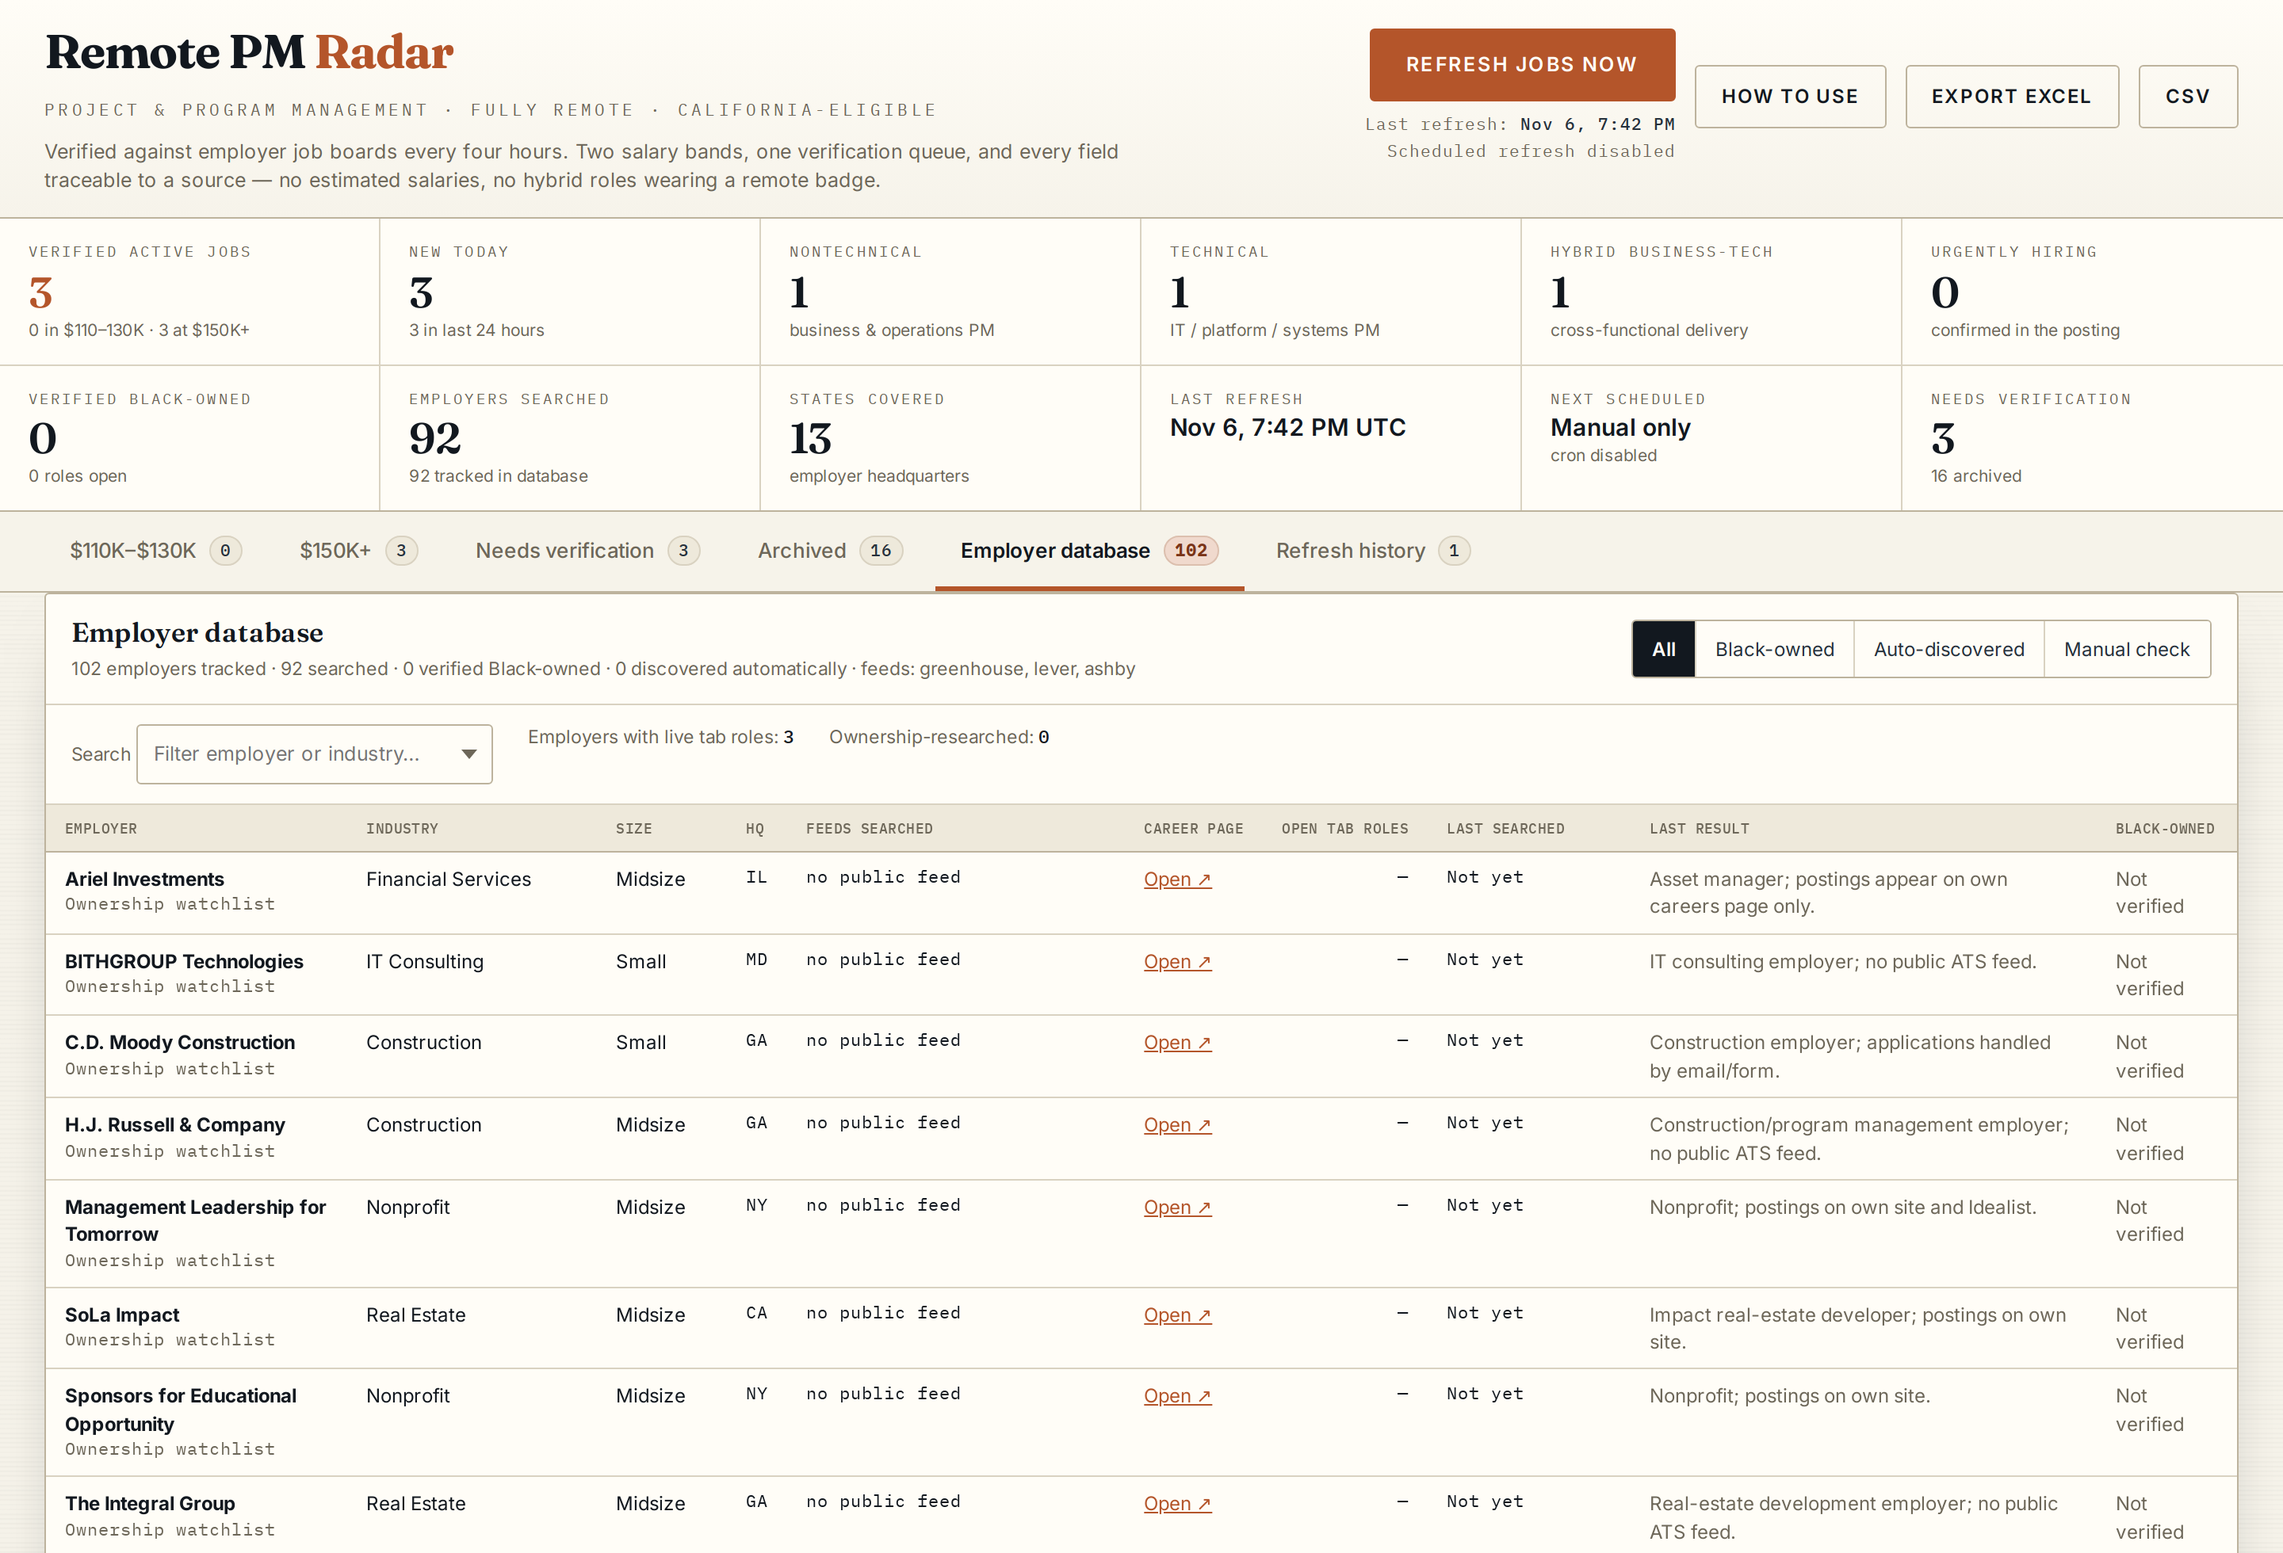
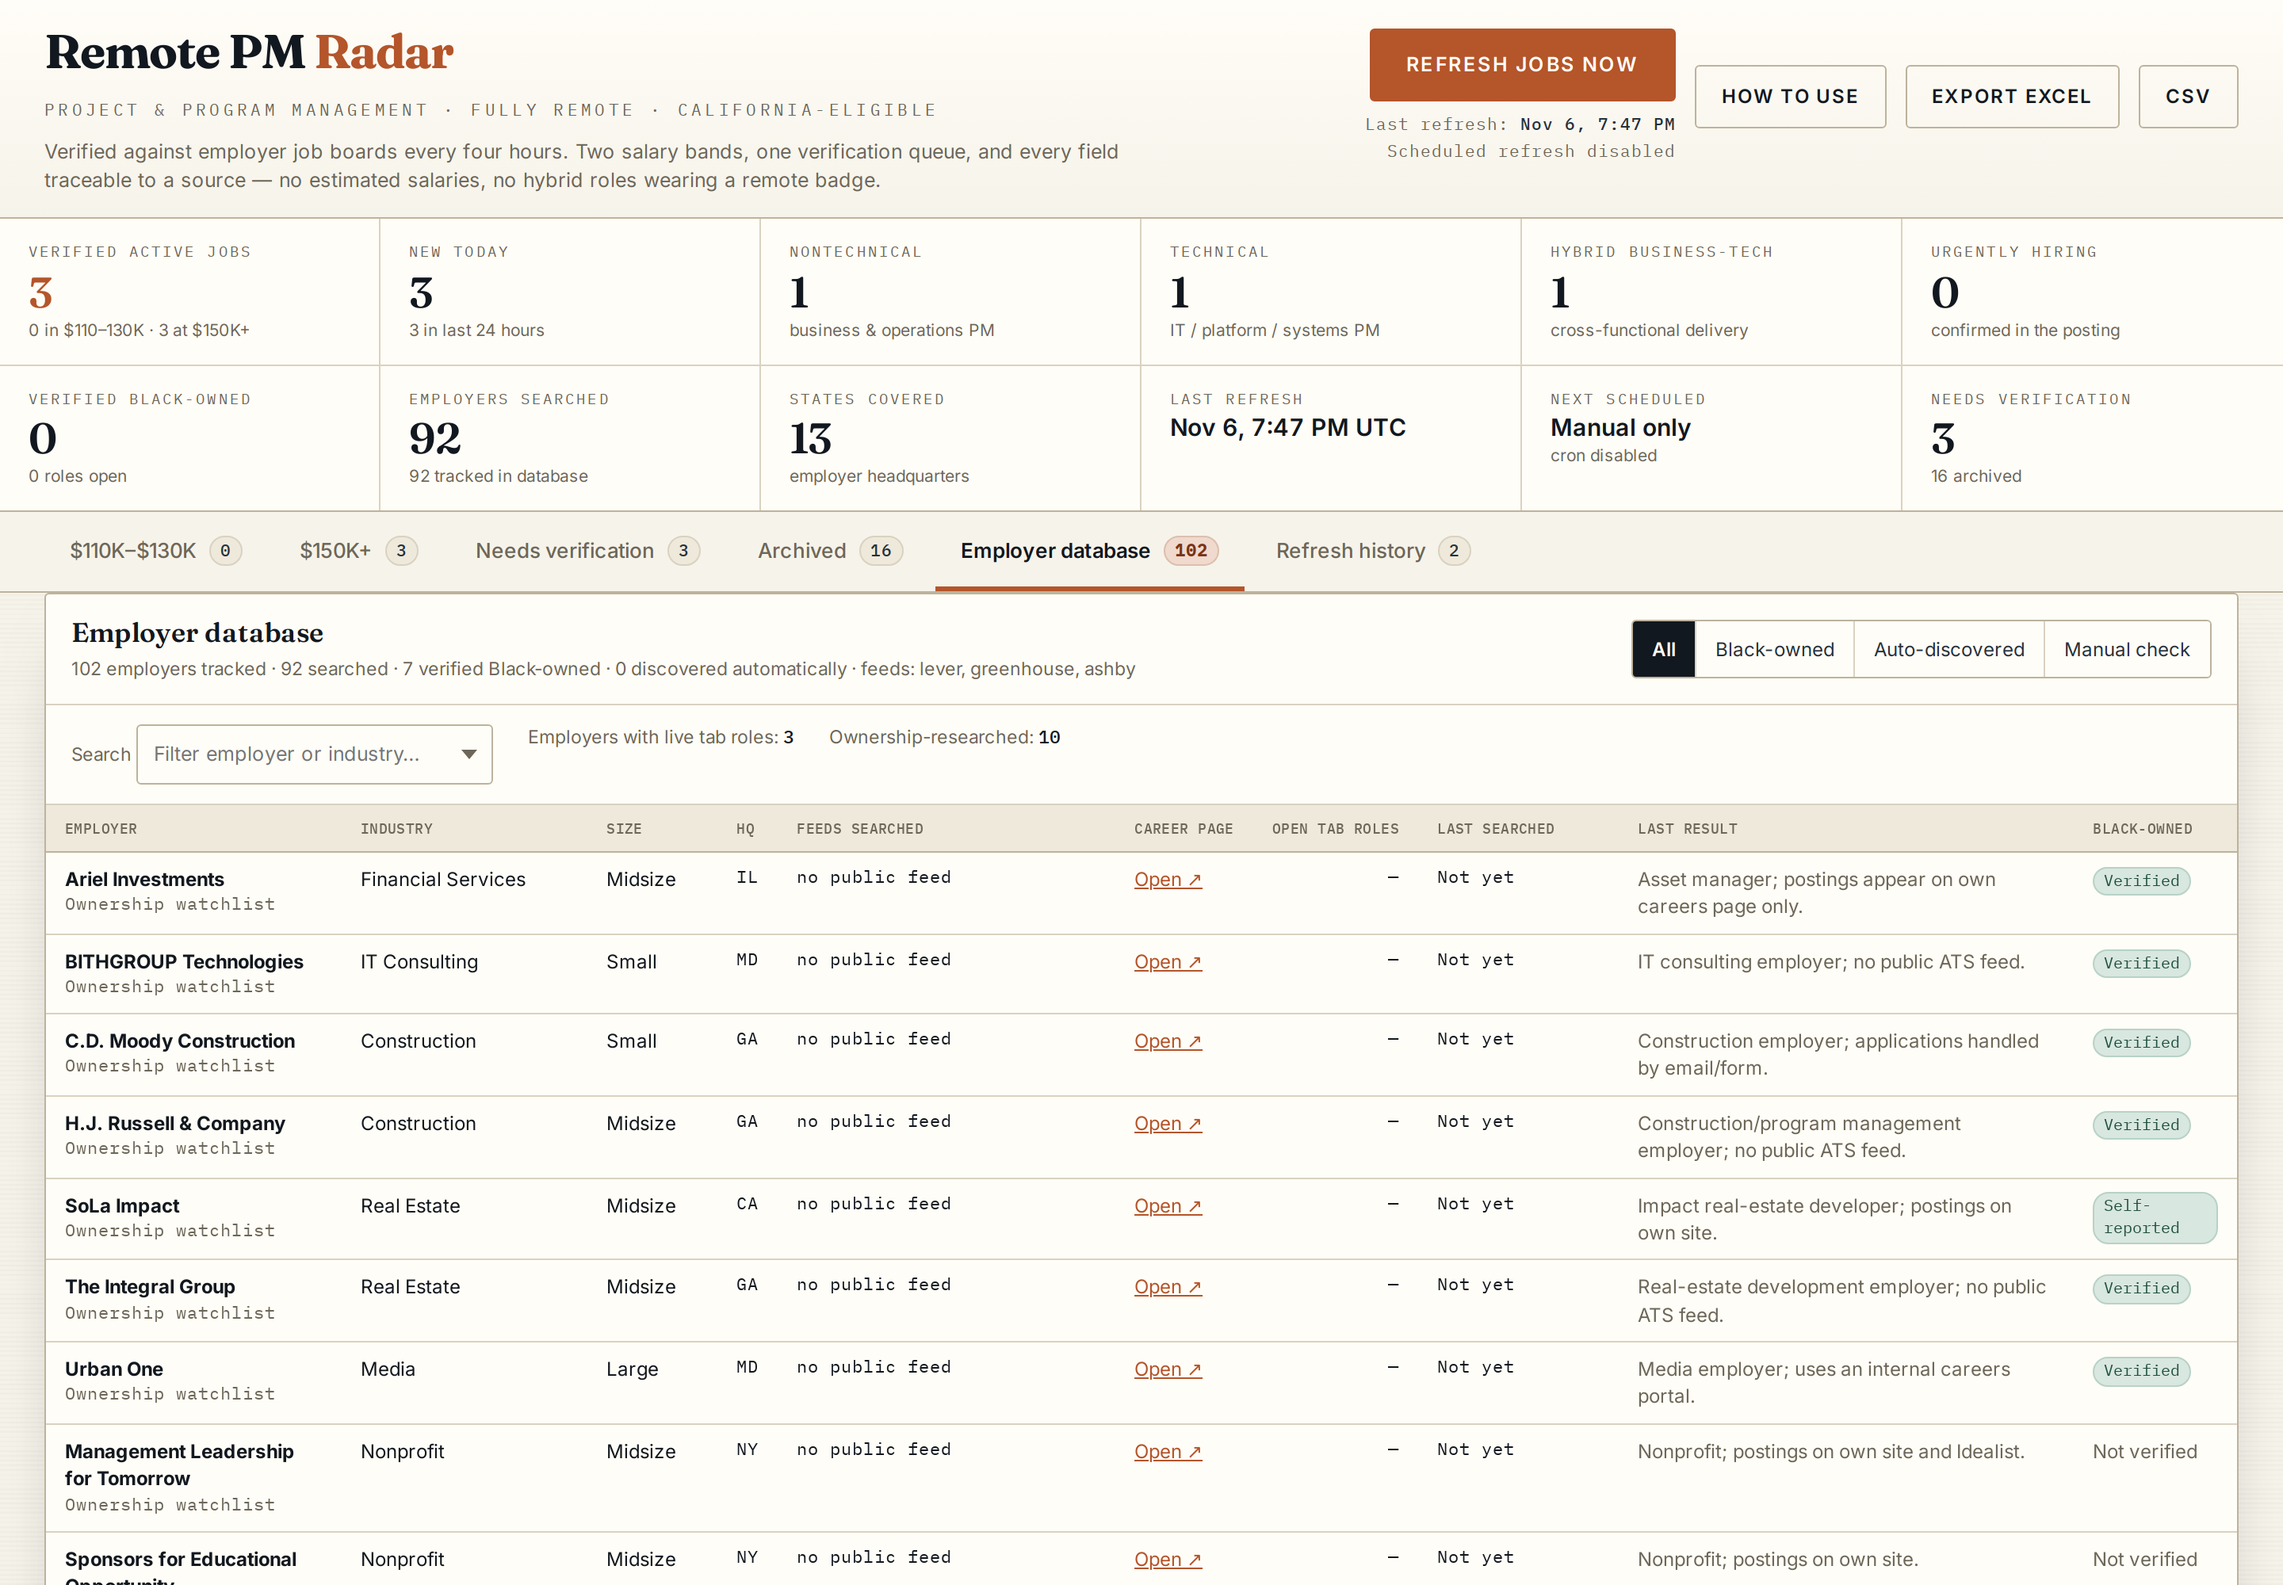
Fix type errors, clarify job-family labels, refresh screenshots and export

diff --git a/client/src/lib.ts b/client/src/lib.ts
@@ -29,11 +29,38 @@ export function startRefresh(): Promise<{ runId: number; alreadyRunning: boolean
   return api('/api/refresh', { method: 'POST', body: JSON.stringify({}) });
 }
 
-export function refreshStatus(): Promise<{
-  run: (Run & { id: number }) | null;
-  refreshing: boolean;
-}> {
-  return api('/api/refresh/status');
+export interface RunStatus {
+  id: number;
+  status: string;
+  progress: string | null;
+  newJobs: number;
+  addedTab1: number;
+  addedTab2: number;
+  queued: number;
+}
+
+export async function refreshStatus(): Promise<{ run: RunStatus | null; refreshing: boolean }> {
+  const raw = await api<{
+    run: {
+      id: number; status: string; progress: string | null; new_jobs: number;
+      added_tab1: number; added_tab2: number; queued: number;
+    } | null;
+    refreshing: boolean;
+  }>('/api/refresh/status');
+  return {
+    refreshing: raw.refreshing,
+    run: raw.run
+      ? {
+        id: raw.run.id,
+        status: raw.run.status,
+        progress: raw.run.progress,
+        newJobs: raw.run.new_jobs,
+        addedTab1: raw.run.added_tab1,
+        addedTab2: raw.run.added_tab2,
+        queued: raw.run.queued,
+      }
+      : null,
+  };
 }
 
 /* ------------------------------------------------------------- formatting */

diff --git a/client/src/components/JobDrawer.tsx b/client/src/components/JobDrawer.tsx
@@ -124,7 +124,7 @@ export function JobDrawer({ job, onClose, onUpdated }: Props) {
               <Fact label="Last verified" value={dateTimeLabel(job.lastVerifiedAt)} />
               <Fact label="Link check" value={`${job.linkStatus ?? 'not checked'} · ${dateLabel(job.linkVerifiedAt)}`} />
               <Fact label="Link type" value={job.linkType === 'employer' ? 'Direct employer posting' : 'Job-board listing'} />
-              <Fact label="Black-owned verification" value={job.blackOwned} narrow />
+              <Fact label="Black-owned verification" value={job.blackOwned} />
               <Fact label="Ownership source" value={job.ownershipSource ?? '—'} wide />
             </dl>
           </div>

diff --git a/client/src/App.tsx b/client/src/App.tsx
@@ -72,7 +72,7 @@ export default function App() {
         await loadAll();
         const finished = status.run;
         if (finished) {
-          notify(`Refresh complete — ${finished.new_jobs} new leads, ${finished.added_tab1 + finished.added_tab2} placed in salary tabs.`);
+          notify(`Refresh complete — ${finished.newJobs} new leads, ${finished.addedTab1 + finished.addedTab2} placed in salary tabs.`);
         }
       }
     } catch {
